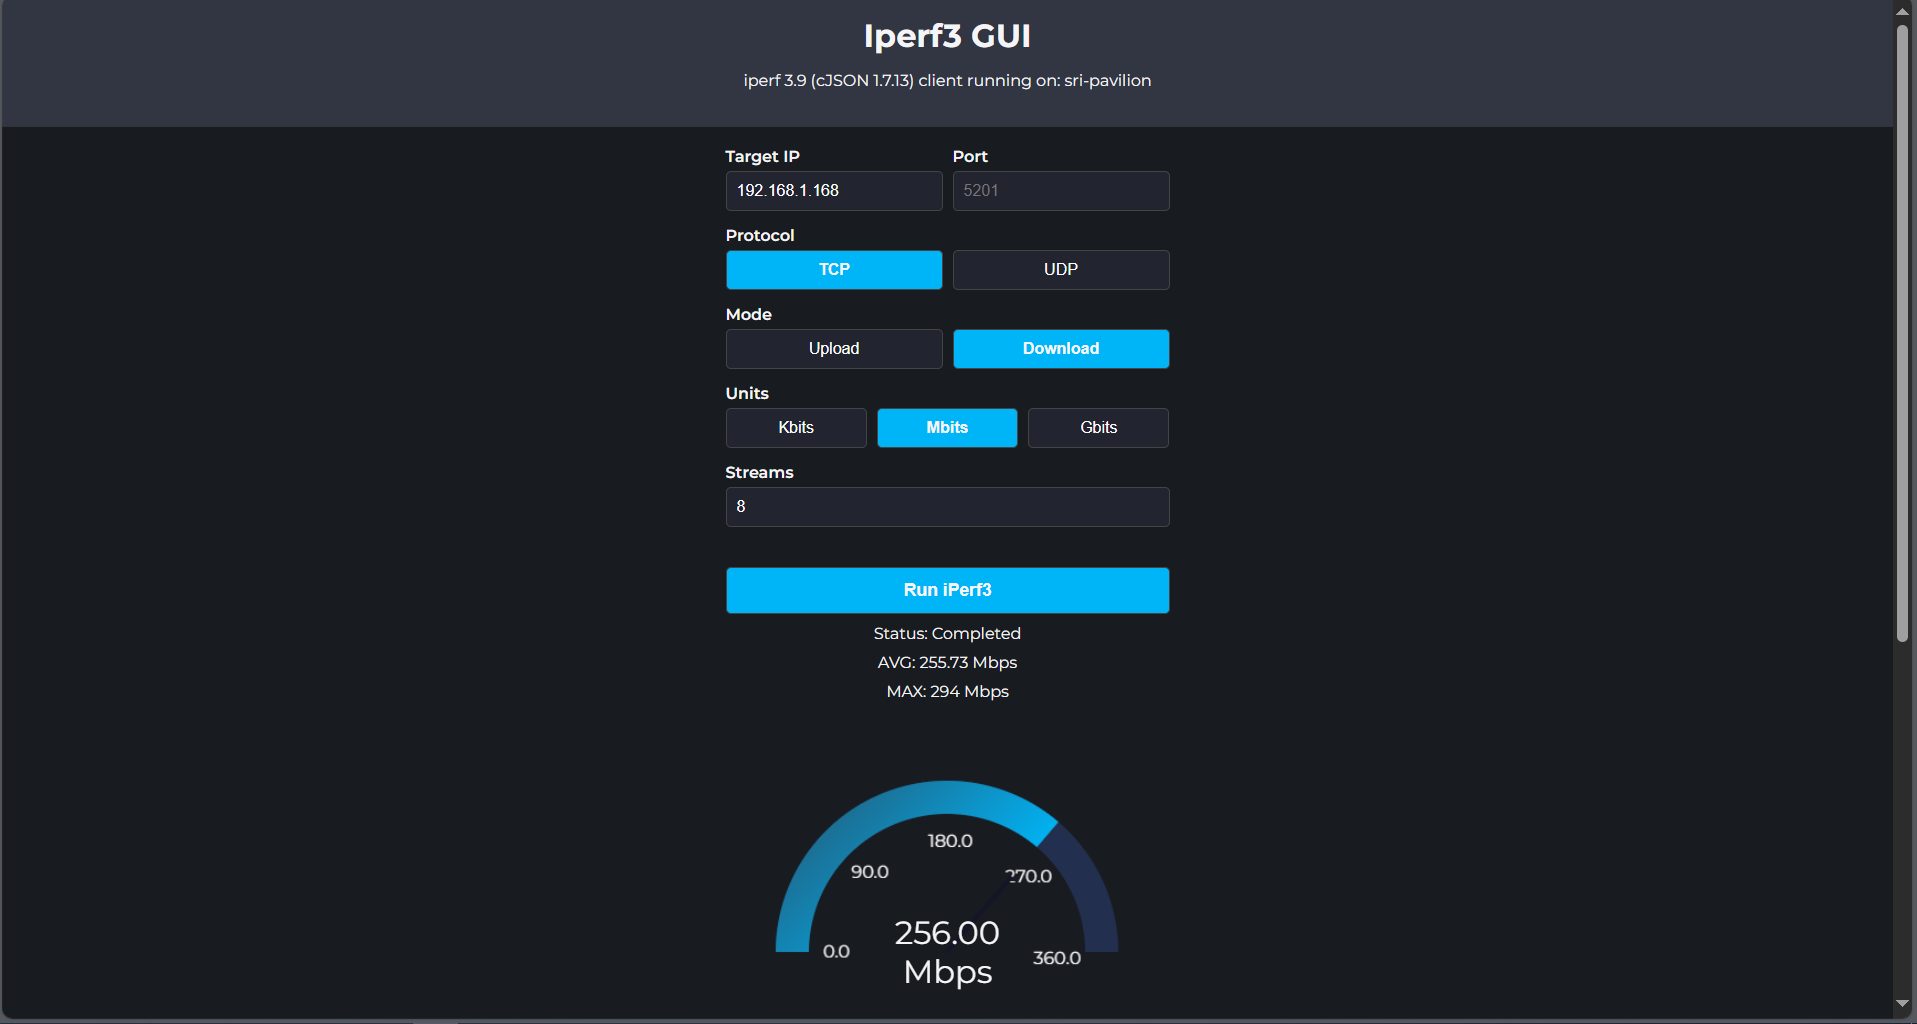
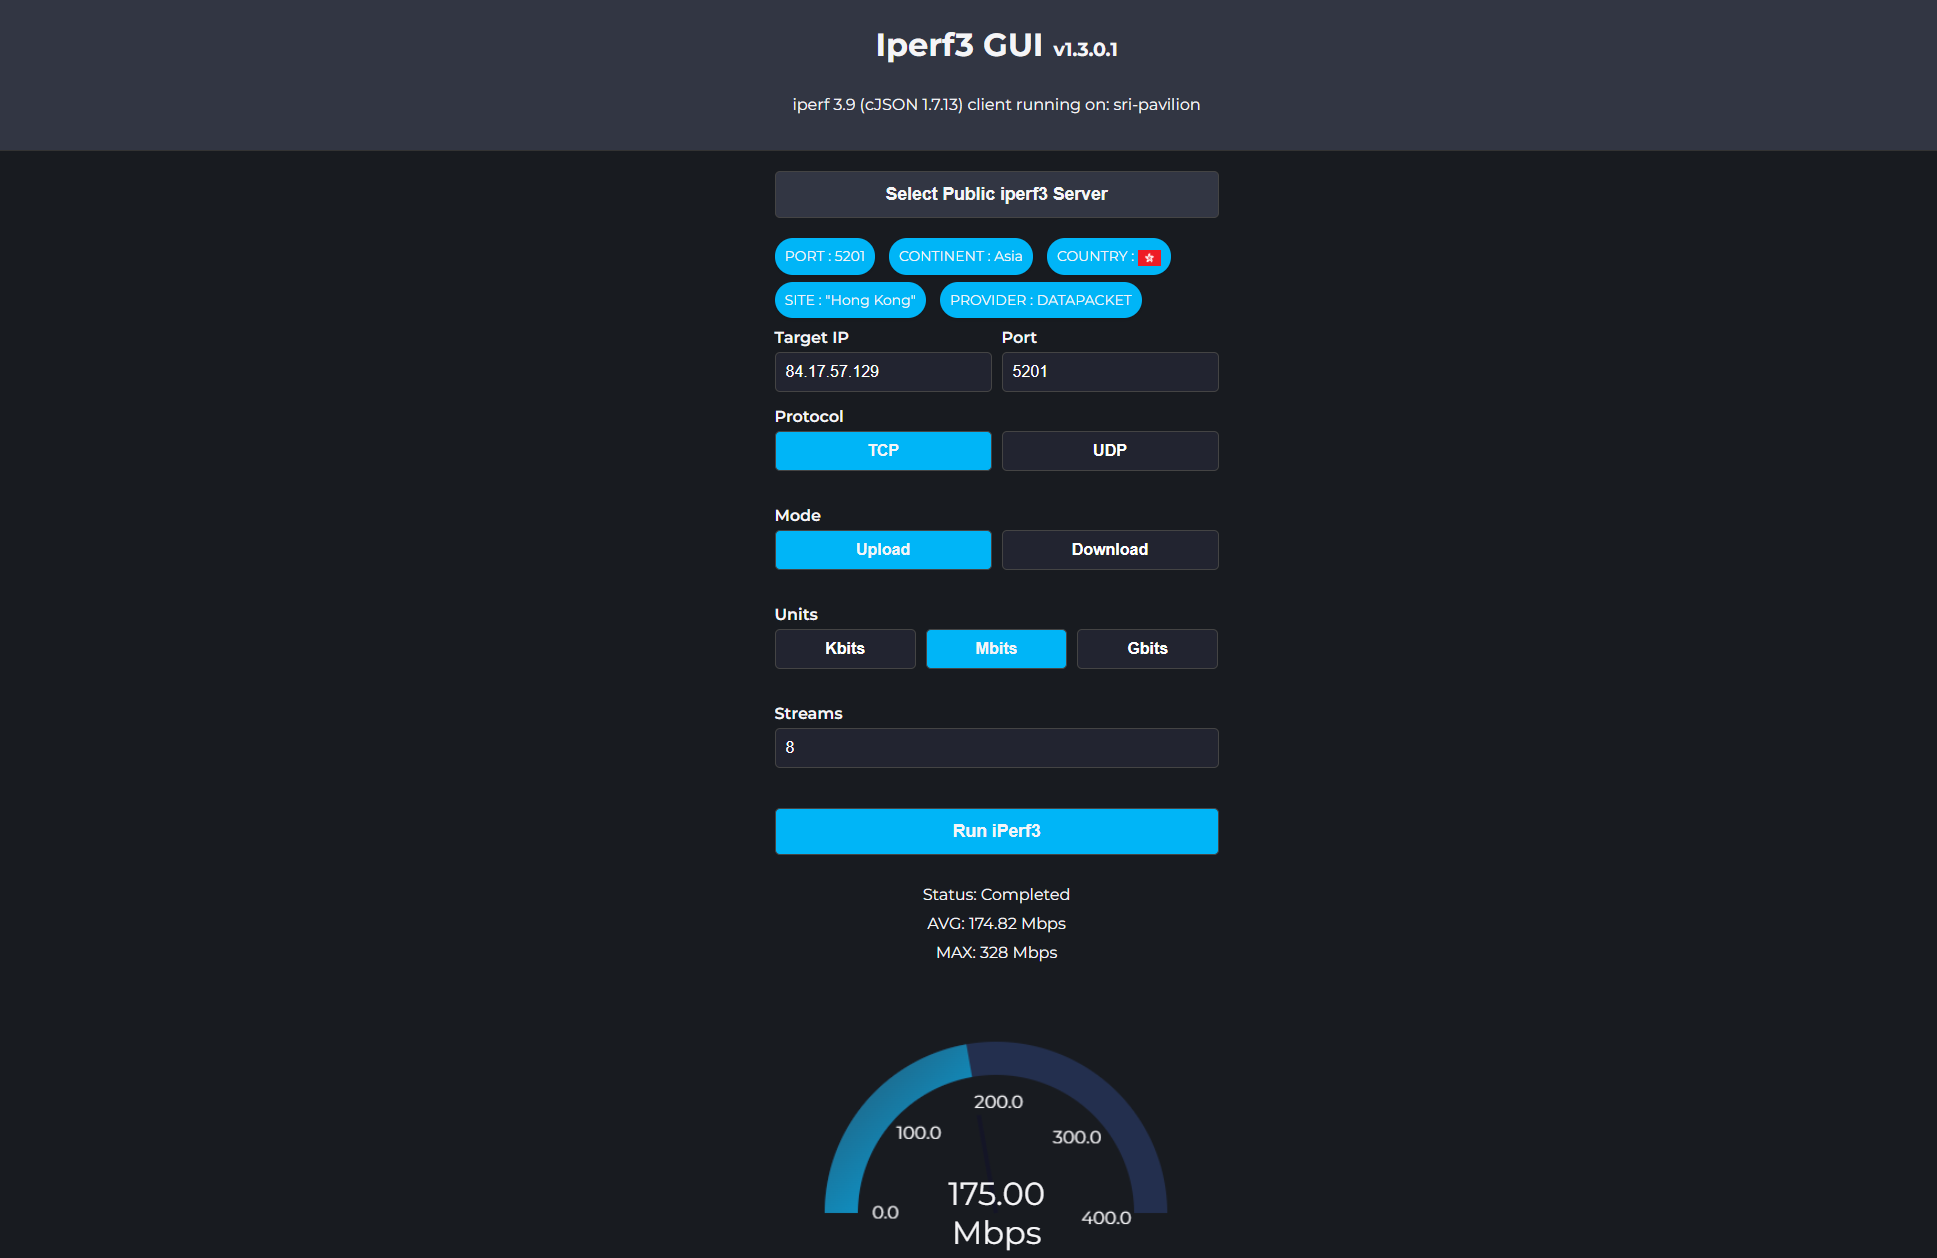
FEAT: v1.3.0.1 released

Changed region(s): [[0.0, 0.0, 1.0, 1.0], [0.3693, 0.375, 0.4001, 0.4062]]

diff --git a/templates/index.html b/templates/index.html
@@ -68,7 +68,7 @@
         <div class="title">
             <h1>Iperf3 GUI</h1>
             <div style="width: 10px;"></div>
-            <h3> v1.2.0.1</h3>
+            <h3> v1.3.0.1</h3>
 
         </div>
         

diff --git a/README.md b/README.md
@@ -4,9 +4,9 @@
 Run network speed tests easily from **any device** — macOS, Linux, Windows, or even Android phones (via Termux).
 
 ---
-## Updates on v1.2.0.1 
- - Adding custom port (iperf3 -p)
- - Bug Fixes
+## Updates on v1.3.0.1 
+ - NEW FEATURE: Public Iperf3 server list integrated from (https://github.com/R0GGER/public-iperf3-servers) 
+ - code refactor (state.js to keep easy track of variable state)
  
 ## ✨ Features
 
